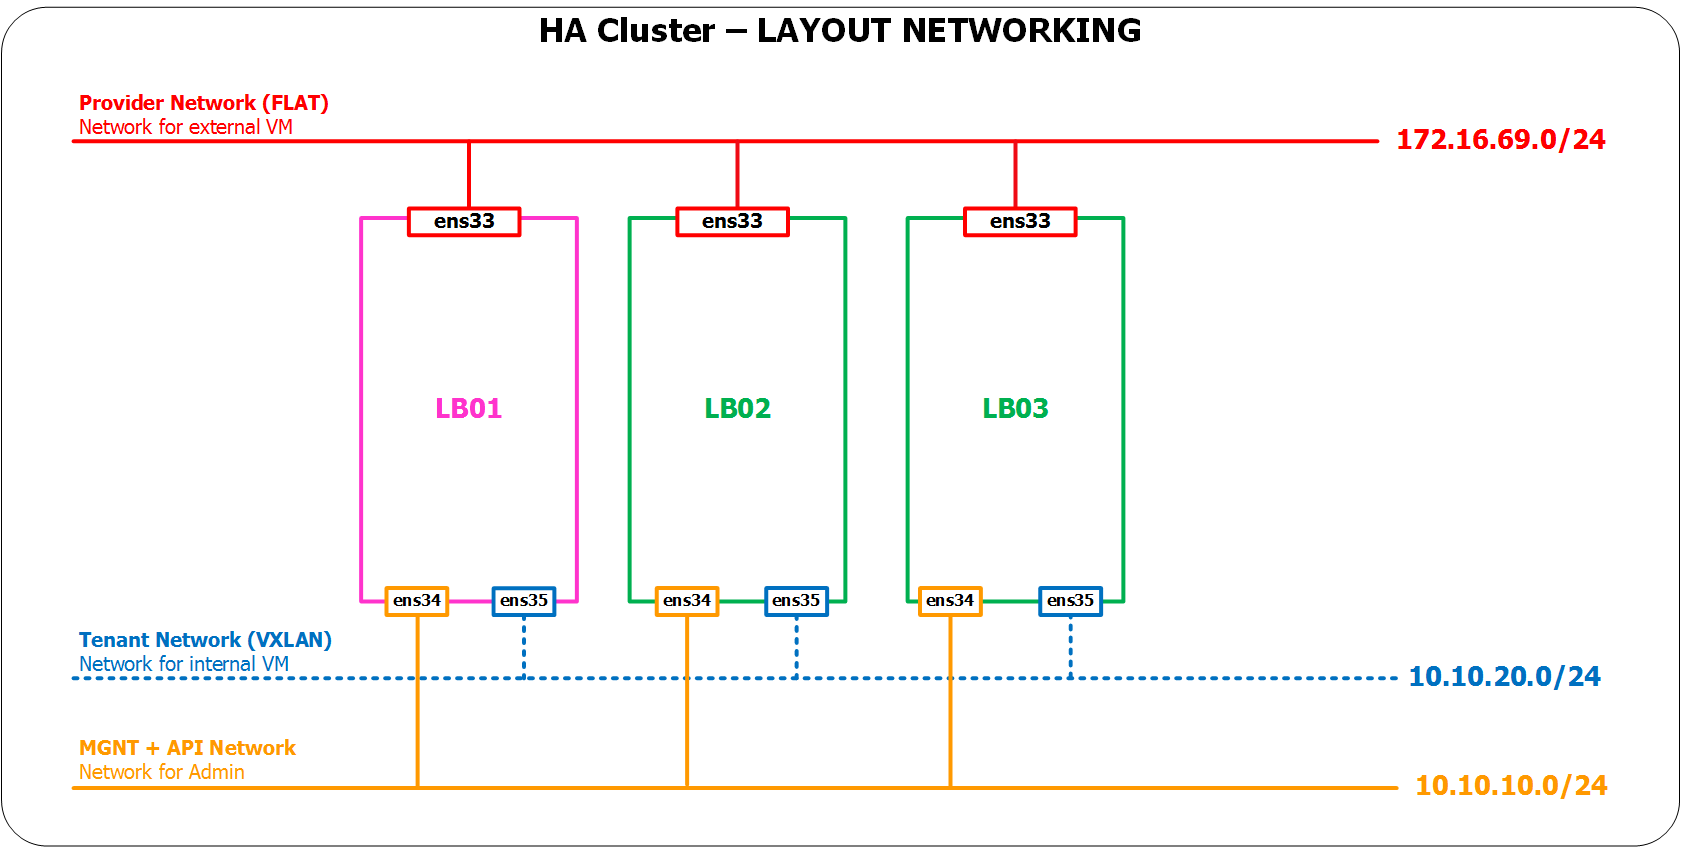
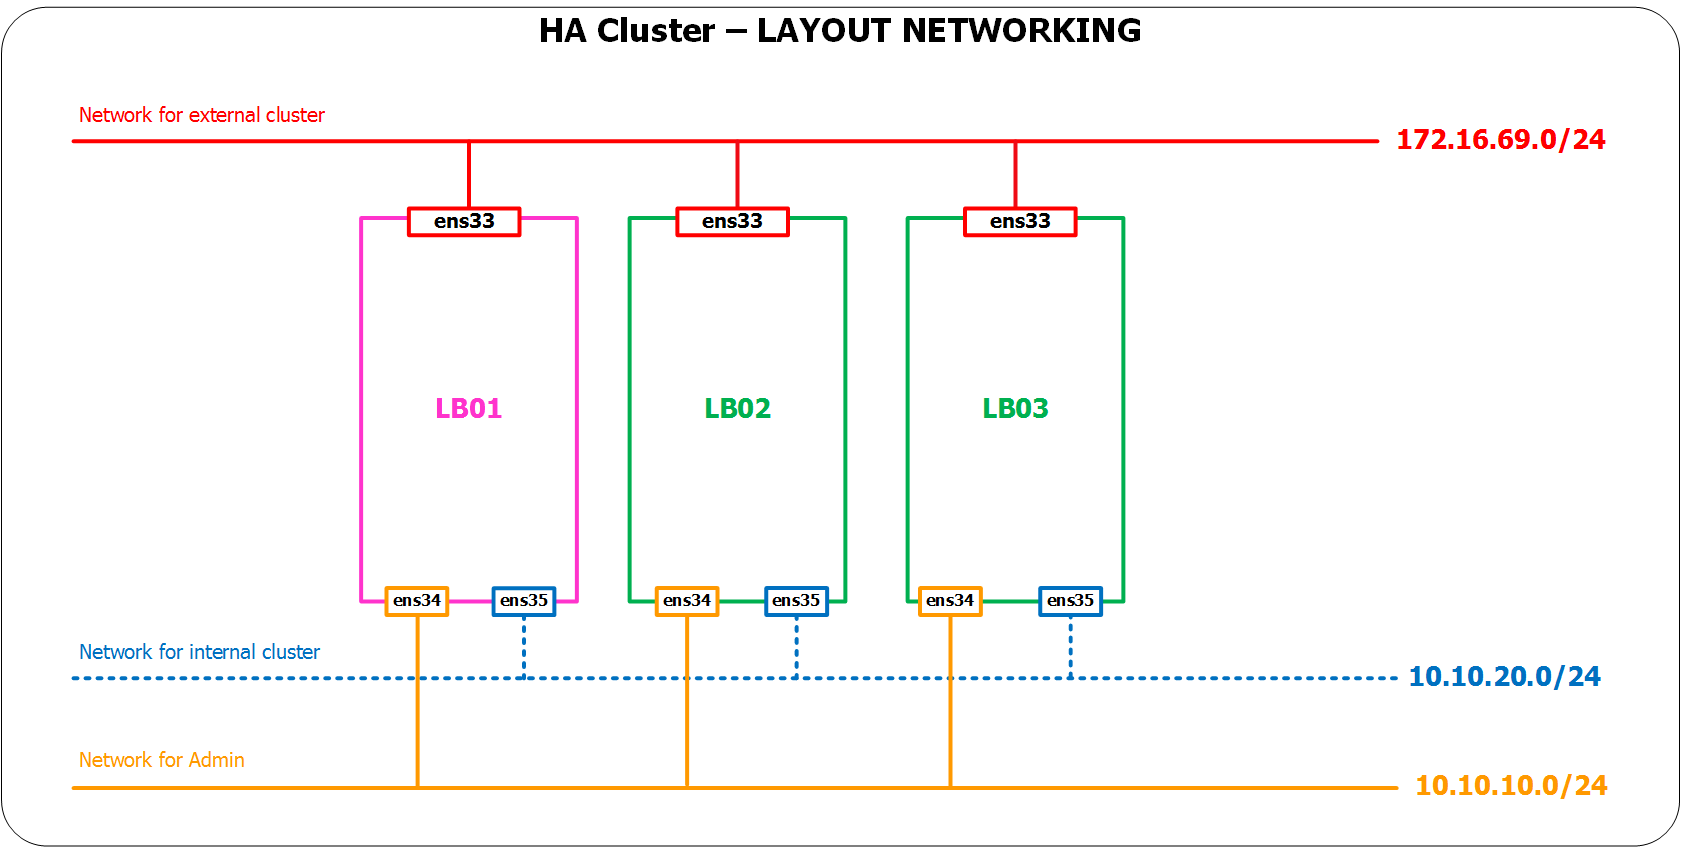
Modified: images about architectural models, content of constraint ...

Changed region(s): [[0.0309, 0.7358, 0.2164, 0.7972], [0.0309, 0.092, 0.2164, 0.1533], [0.0309, 0.8585, 0.1855, 0.9198]]

diff --git a/docs/constraint-pacemaker.md b/docs/constraint-pacemaker.md
@@ -75,7 +75,7 @@ ____
 
 			+ Chỉ cho phép resource Virtual_IP hoạt động trên node lb01 và node lb03
 			+ Chỉ cho phép resource Web_Cluster hoạt động trên node lb02 và node lb03
-			+ 
+			+ Khi các node lb01, lb02 bị lỗi thì quá trình fail-over sẽ xảy ra - resource Virtual_IP, Web_Cluster sẽ được dịch chuyển sang node lb03
 
 
 
